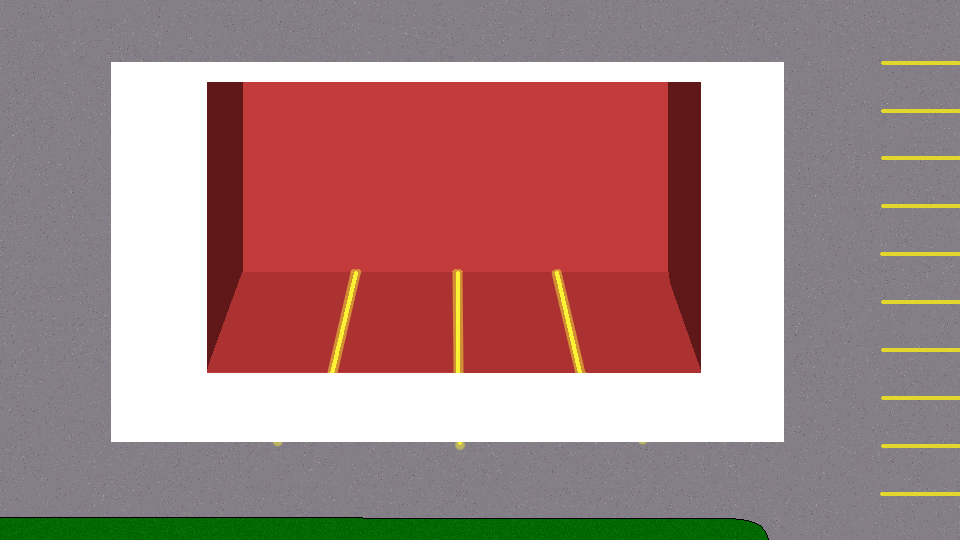
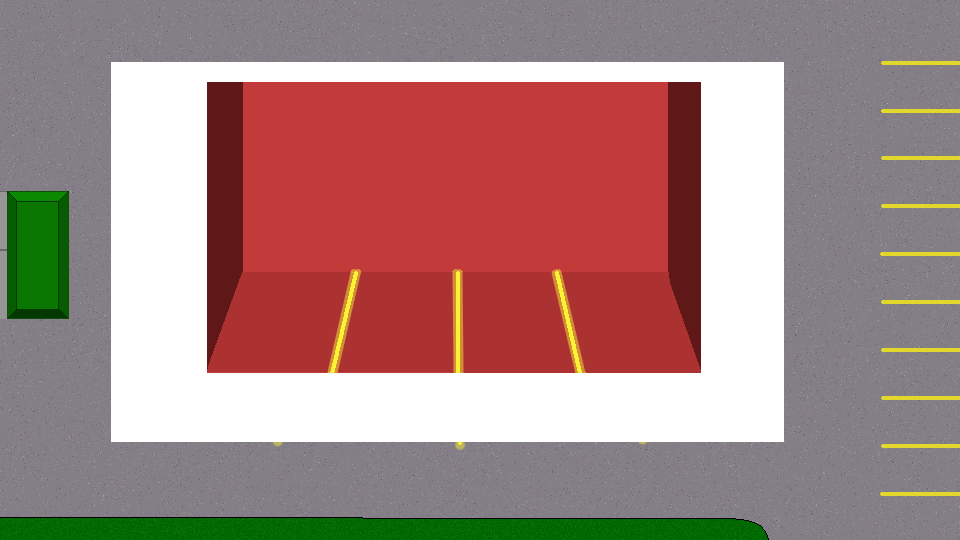
Bruh

Changed region(s): [[0.0, 0.3556, 0.0938, 0.5926]]

diff --git a/src/gameObjects/Player.java b/src/gameObjects/Player.java
@@ -1,10 +1,16 @@
 package gameObjects;
 
+import java.awt.event.KeyEvent;
+import java.util.ArrayList;
+
 import engine.GameCode;
 import engine.GameObject;
+import engine.ObjectHandler;
 import engine.Sprite;
 
 public class Player extends GameObject {
+	
+	public GameObject carrying;
 	
 	public Player () {
 		setSprite (new Sprite ("resources/sprites/player.png"));
@@ -31,6 +37,61 @@ public class Player extends GameObject {
 			setX (xprev);
 			setY (yprev);
 		}
+		if (keyPressed(KeyEvent.VK_ENTER)) {
+			if (carrying == null) {
+				if (isColliding ("RockSource")) {
+					RockSource rs = (RockSource)this.getCollisionInfo ().getCollidingObjects ().get (0);
+					Rock r = rs.generateRock ();
+					if (r != null) {
+						carrying = r;
+					}
+				} else {
+					ArrayList<ArrayList<GameObject>> pickups = new ArrayList<ArrayList<GameObject>> ();
+					pickups.add (ObjectHandler.getObjectsByName ("Tras"));
+					pickups.add (ObjectHandler.getObjectsByName ("Rock"));
+					for (int i = 0; i < pickups.size (); i++) {
+						ArrayList<GameObject> currList = pickups.get (i);
+						for (int j = 0; j < currList.size (); j++) {
+							GameObject curr = currList.get (j);
+							double x1 = getX () + hitbox ().width / 2;
+							double y1 = getY () + hitbox ().height / 2;
+							double x2 = curr.getX () + curr.hitbox ().width / 2;
+							double y2 = curr.getY () + curr.hitbox ().height / 2;
+							if (Math.sqrt ((x1 - x2) * (x1 - x2) + (y1 - y2) * (y1 - y2)) < 60) {
+								carrying = curr;
+								break;
+							}
+						}
+						if (carrying != null) {
+							break;
+						}
+					}
+				}
+			} else {
+				carrying = null;
+			}
+		}
+		if (carrying != null) {
+			carrying.setX (getX () + 8 - carrying.hitbox ().width / 2);
+			carrying.setY (getY () - carrying.hitbox ().height);
+		}
 	}
 
+	@Override
+	public void draw () {
+		super.draw ();
+		if (carrying == null && isColliding ("RockSource")) {
+			RockSource.getEnterForRocks ().show ();
+			if (RockSource.getEnterForRocks ().tooManyRocks ()) {
+	 			RockSource.getEnterForRocks ().setX (getX () - 16);
+				RockSource.getEnterForRocks ().setY (getY () - 48);
+			} else {
+	 			RockSource.getEnterForRocks ().setX (getX ());
+				RockSource.getEnterForRocks ().setY (getY () - 32);
+			}
+		} else {
+			RockSource.getEnterForRocks ().hide ();
+		}
+	}
+	
 }

diff --git a/src/gameObjects/RockSource.java b/src/gameObjects/RockSource.java
@@ -1,0 +1,37 @@
+package gameObjects;
+
+import java.awt.Rectangle;
+
+import engine.GameObject;
+import engine.Sprite;
+
+public class RockSource extends GameObject {
+	
+	private static EnterForRocks rockIndicator = new EnterForRocks ();
+	
+	private int rockCount = 0;
+	
+	public RockSource (Rectangle bounds) {
+		this.setHitboxAttributes (bounds.x, bounds.y, bounds.width, bounds.height);
+	}
+	
+	public static EnterForRocks getEnterForRocks () {
+		if (!rockIndicator.declared ()) {
+			rockIndicator.declare ();
+		}
+		return rockIndicator;
+	}
+	
+	public Rock generateRock () {
+		if (rockCount < 10) {
+			Rock r = new Rock ();
+			r.declare (getX (), getY ());
+			rockCount++;
+		return r;
+		} else {
+			rockIndicator.setTooManyRocks ();
+			return null;
+		}
+	}
+
+}

diff --git a/src/gameObjects/EnterForRocks.java b/src/gameObjects/EnterForRocks.java
@@ -1,0 +1,27 @@
+package gameObjects;
+
+import engine.GameObject;
+import engine.Sprite;
+
+public class EnterForRocks extends GameObject {
+	
+	public static final Sprite pickupRock = new Sprite ("resources/sprites/enterforrocks.png");
+	public static final Sprite noMoreRock = new Sprite ("resources/sprites/easteregg.png");
+	
+	private boolean tooMany = false;
+	
+	public EnterForRocks () {
+		setSprite (pickupRock);
+		this.setRenderPriority (100);
+	}
+	
+	public boolean tooManyRocks () {
+		return tooMany;
+	}
+	
+	public void setTooManyRocks () {
+		tooMany = true;
+		setSprite (noMoreRock);
+	}
+
+}

diff --git a/src/gameObjects/OutsideMcDonalds.java b/src/gameObjects/OutsideMcDonalds.java
@@ -31,6 +31,14 @@ public class OutsideMcDonalds extends Level {
 		player.declare ();
 		
 		collision.add (new Rectangle (207, 82, 494, 291));
+		collision.add (new Rectangle (0, 191, 69, 128));
+		
+		new Tras ().declare (24, 274);
+		new Tras ().declare (24, 252);
+		new Tras ().declare (24, 230);
+		new Tras ().declare (24, 208);
+		
+		new RockSource (new Rectangle (289, 373, 170, 58)).declare ();
 		
 	}
 	

diff --git a/src/gameObjects/Tras.java b/src/gameObjects/Tras.java
@@ -1,0 +1,13 @@
+package gameObjects;
+
+import engine.GameObject;
+import engine.Sprite;
+
+public class Tras extends GameObject implements Carryable {
+	
+	public Tras () {
+		setSprite (new Sprite ("resources/sprites/tras.png"));
+		this.setHitboxAttributes (0, 0, 32, 32);
+	}
+
+}

diff --git a/src/gameObjects/Rock.java b/src/gameObjects/Rock.java
@@ -1,0 +1,13 @@
+package gameObjects;
+
+import engine.GameObject;
+import engine.Sprite;
+
+public class Rock extends GameObject {
+	
+	public Rock () {
+		setSprite (new Sprite ("resources/sprites/rock.png"));
+		this.useSpriteHitbox ();
+	}
+
+}

diff --git a/src/gameObjects/Level.java b/src/gameObjects/Level.java
@@ -13,7 +13,7 @@ public class Level {
 	}
 	
 	public boolean isColliding (GameObject obj) {
-		
+		return false;
 	}
 
 }

diff --git a/src/gameObjects/Carryable.java b/src/gameObjects/Carryable.java
@@ -1,0 +1,5 @@
+package gameObjects;
+
+public interface Carryable {
+	//Just a marker interface
+}
